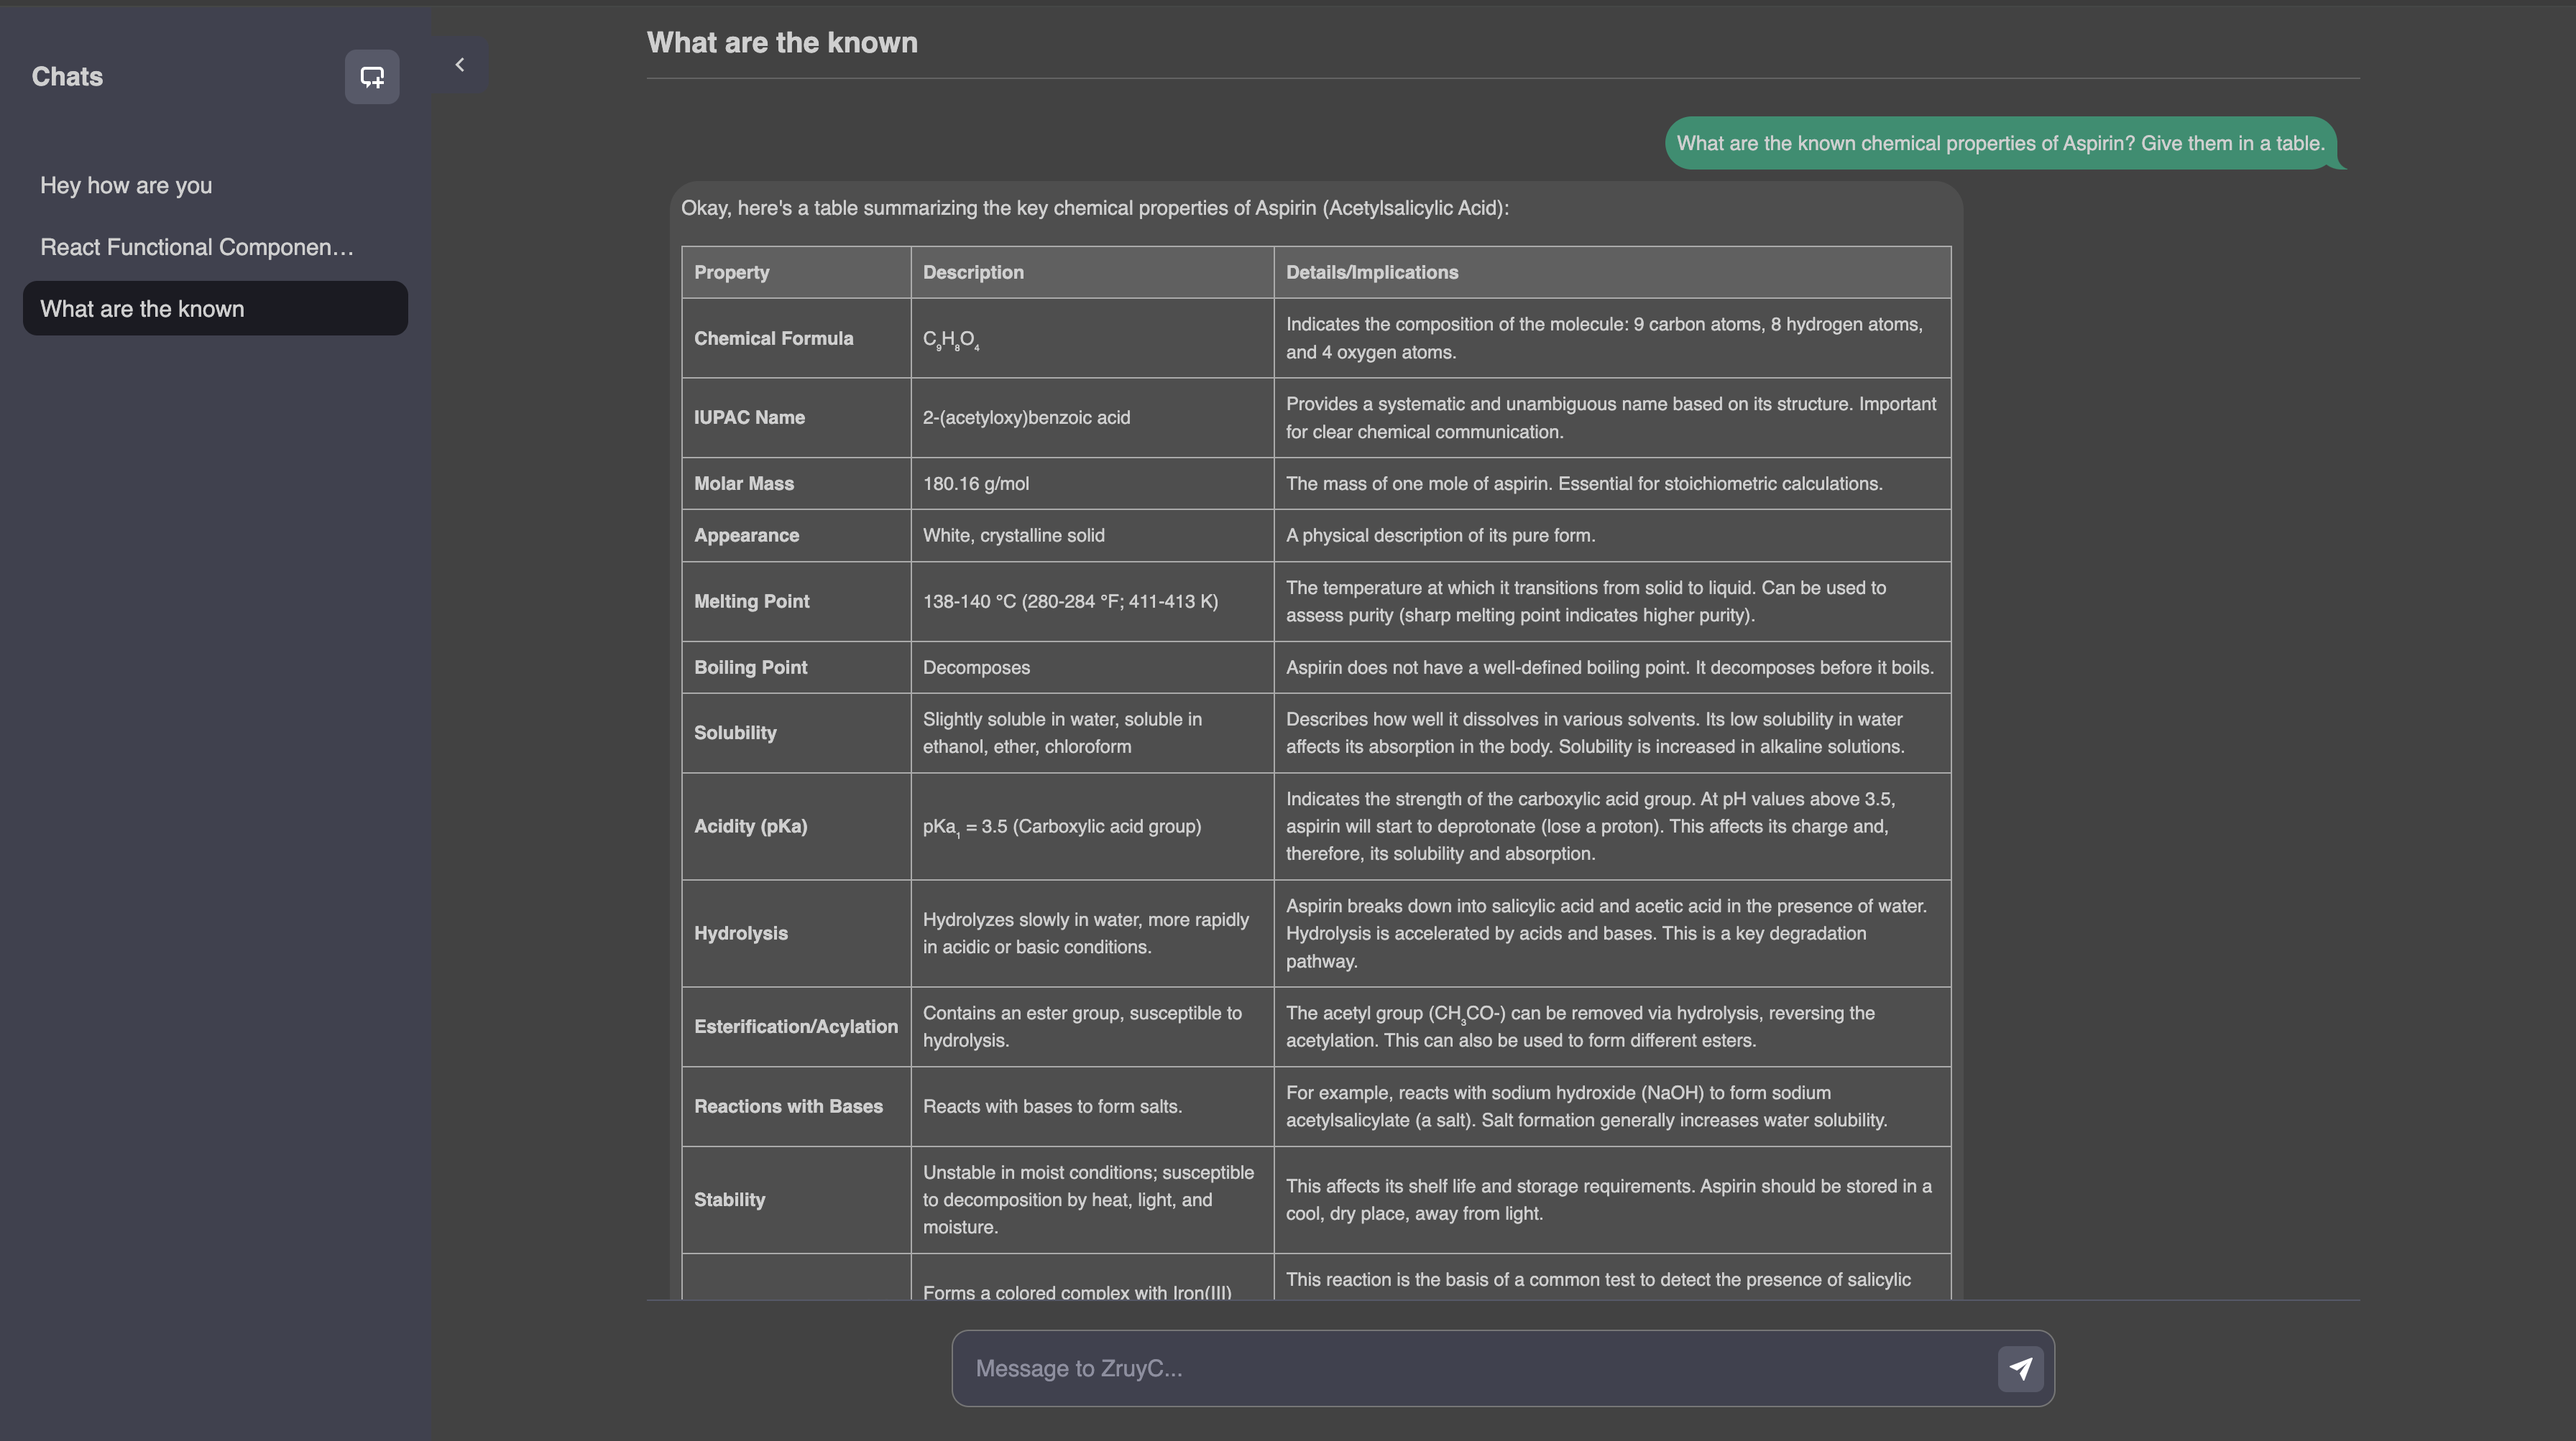
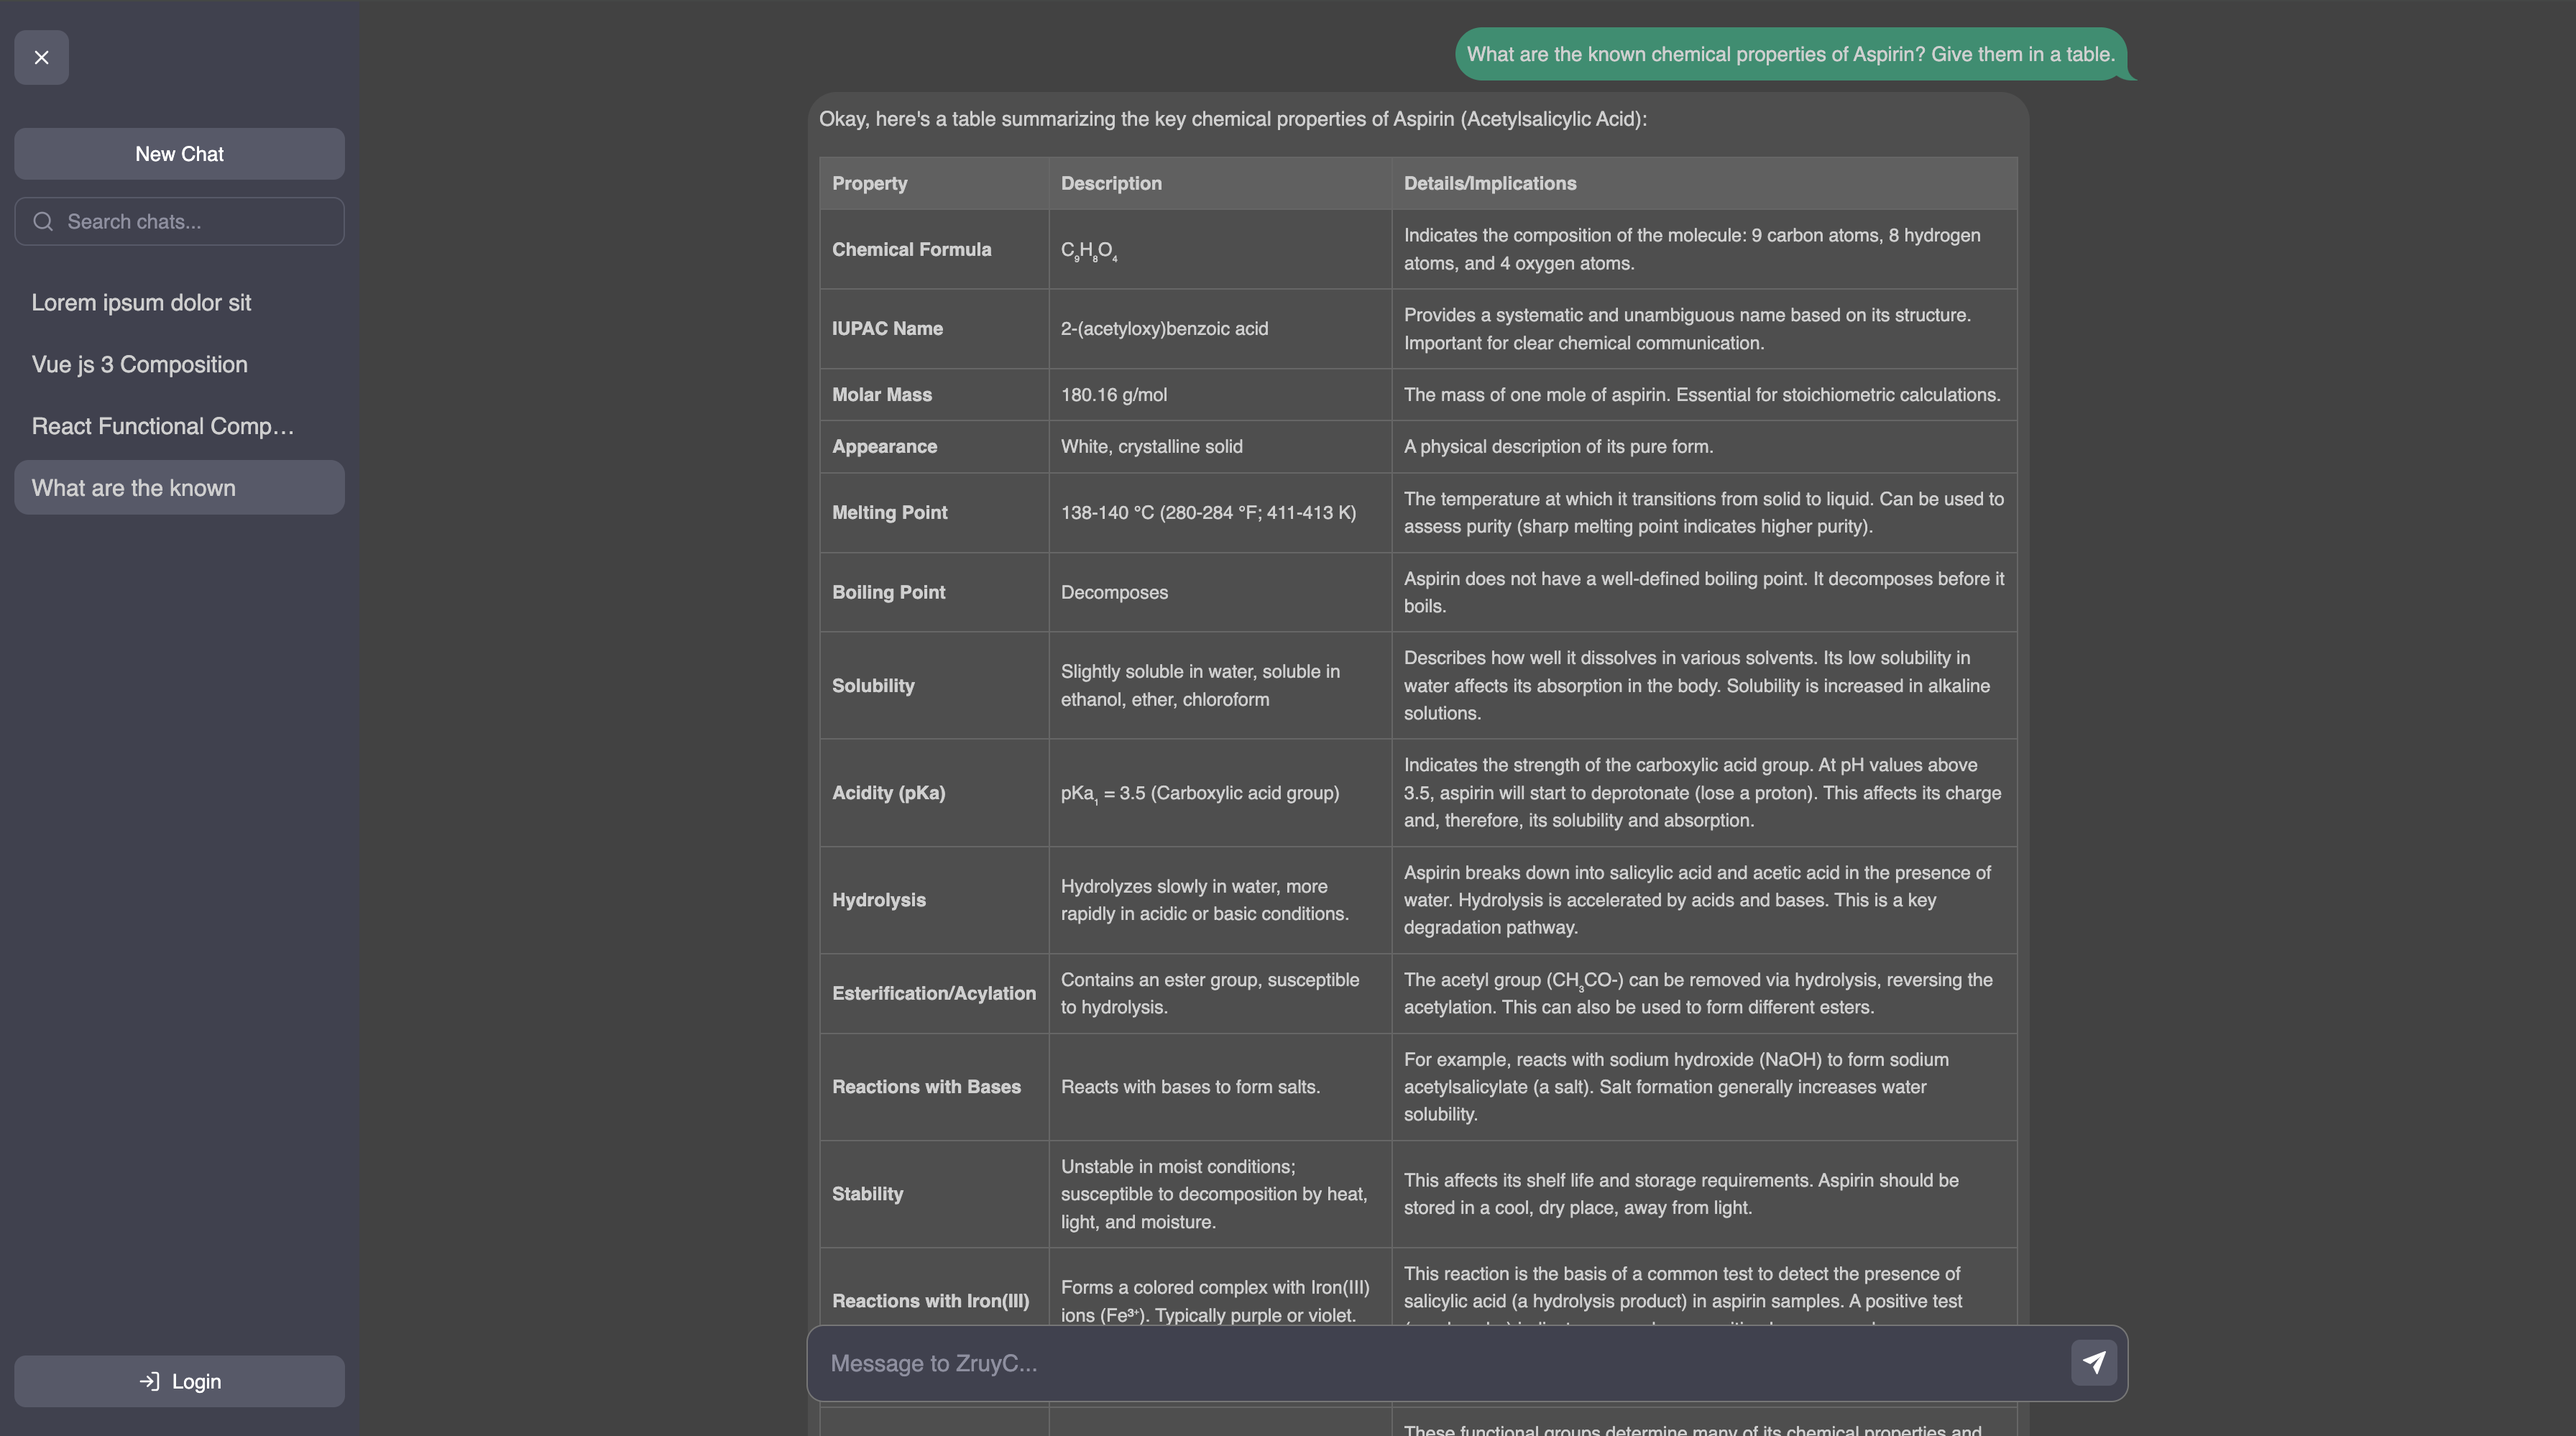
Update readme and screenshot

diff --git a/README.md b/README.md
@@ -59,12 +59,22 @@ src/
 │   │   ├── PlusIcon.tsx # New chat icon
 │   │   ├── TrashIcon.tsx # Delete chat icon
 │   │   ├── ChevronLeftIcon.tsx # Sidebar toggle icon
-│   │   └── SendIcon.tsx # Send message icon
-│   ├── ChatList.tsx     # Sidebar with chat management
+│   │   ├── SendIcon.tsx # Send message icon
+│   │   ├── HamburgerIcon.tsx # Mobile menu toggle
+│   │   ├── LoginIcon.tsx # User authentication
+│   │   ├── UserIcon.tsx # User profile
+│   │   ├── SearchIcon.tsx # Search functionality
+│   │   ├── CloseIcon.tsx # Close/clear actions
+│   │   └── ChatIcon.tsx # Chat/conversation icon
+│   ├── ChatList.tsx     # Sidebar with chat management & search
 │   ├── ChatWindow.tsx   # Main chat interface
-│   └── EmptyState.tsx   # Welcome screen component
+│   ├── ChatInput.tsx    # Message input component
+│   ├── Header.tsx       # Application header
+│   ├── EmptyState.tsx   # Welcome screen component
+│   ├── Search.tsx       # Search input component
+│   └── SidebarContainer.tsx # Sidebar wrapper with toggle
 ├── hooks/
-│   └── useChats.ts      # Chat state management
+│   └── useChats.ts      # Chat state management with search
 ├── api/
 │   └── gemini.ts        # Gemini API integration
 ├── db/
@@ -74,9 +84,12 @@ src/
 ├── types/
 │   └── common.ts       # TypeScript type definitions
 ├── pages/
-│   └── Home.tsx        # Main application page
+│   ├── Home.tsx        # Main application page
+│   ├── About.tsx       # About page
+│   └── NotFound.tsx    # 404 error page
 ├── assets/
-│   └── zruyc_logo.svg  # Application logo
+│   ├── zruyc_logo.svg  # Application logo
+│   └── react.svg       # React logo
 ├── main.tsx            # Application entry point
 ├── router.tsx          # Routing configuration
 └── main.css            # Global styles
